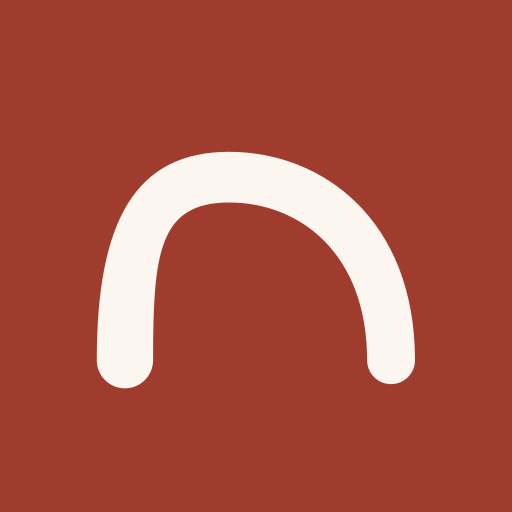
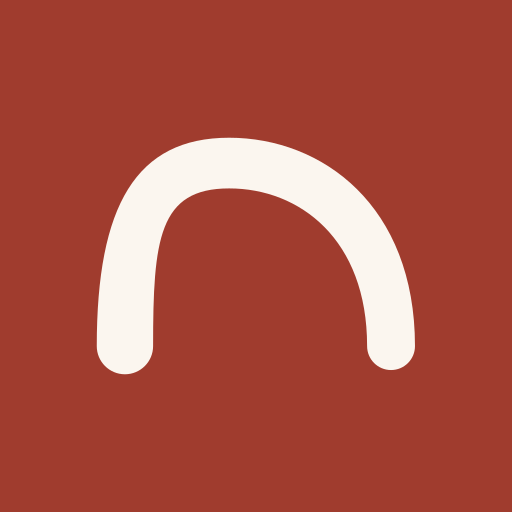
fix: Arch 로고 발끝 둥근 캡 클리핑 수정
viewBox 높이를 74(y 8~82)로 잘라 Arch 발끝의 둥근 캡(반원 호,
y≈92까지 내려옴)이 잘려 발끝이 뭉툭하지 않고 잘린 듯 보였음.
높이를 84(y 8~92)로 바로잡음.

- StayeumWordmark.tsx: viewBox 높이 74→84 (로고 사용처 5곳 자동 반영)
- SplashScreen.tsx·AppShell.tsx: viewBox·svg 크기 보정
- icon.svg·gen-icons.mjs: Arch 중심 정렬 보정 (ty 25.25→22.5)
- PNG 아이콘 3종 재생성

diff --git a/components/brand/StayeumWordmark.tsx b/components/brand/StayeumWordmark.tsx
@@ -27,11 +27,12 @@ export function StayeumWordmark({
   className?: string
   style?: React.CSSProperties
 }) {
-  // 콘텐츠 타이트 viewBox: x 8 시작, y 8–82 (74 높이)
+  // 콘텐츠 타이트 viewBox: x 8 시작, y 8–92 (84 높이)
+  // 높이는 84 — Arch 발끝의 둥근 캡(반원 호)이 y≈92까지 내려옴. 82로 자르면 캡이 잘림.
   // full 폭 366 = arch(~121) + gap + "stayeum" 텍스트 여유분 (글리프 클리핑 방지)
-  const VB = markOnly ? '8 8 113 74' : '8 8 366 74'
+  const VB = markOnly ? '8 8 113 84' : '8 8 366 84'
   const VB_W = markOnly ? 113 : 366
-  const w = height * (VB_W / 74)
+  const w = height * (VB_W / 84)
 
   return (
     <svg

diff --git a/components/layout/AppShell.tsx b/components/layout/AppShell.tsx
@@ -19,7 +19,7 @@ function PageLoadingOverlay() {
         .stm-pulse { transform-box: fill-box; transform-origin: center;
                      animation: stm-pulse 1.4s ease-in-out infinite; }
       `}</style>
-      <svg width="54" height="35" viewBox="8 8 113 74" xmlns="http://www.w3.org/2000/svg" aria-label="로딩 중">
+      <svg width="54" height="40" viewBox="8 8 113 84" xmlns="http://www.w3.org/2000/svg" aria-label="로딩 중">
         <path className="stm-pulse" d={ARCH_PATH} fill="var(--persimmon)" />
       </svg>
     </div>

diff --git a/components/brand/SplashScreen.tsx b/components/brand/SplashScreen.tsx
@@ -34,9 +34,9 @@ export function SplashScreen() {
       `}</style>
 
       <svg
-        viewBox="8 8 366 74"
+        viewBox="8 8 366 84"
         width="250"
-        height="51"
+        height="57"
         fill="none"
         style={{ color: 'inherit' }}
         aria-hidden="true"
